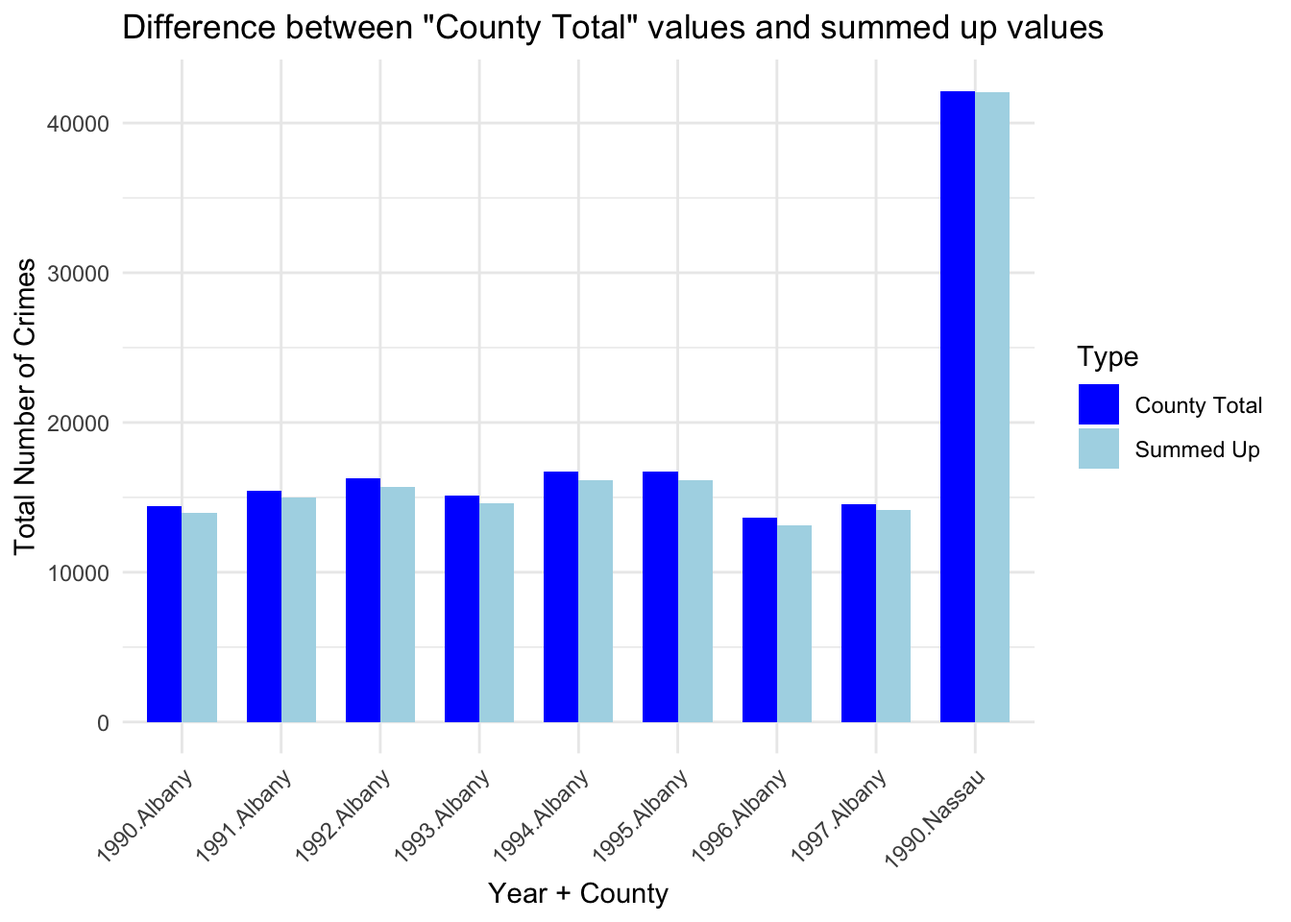
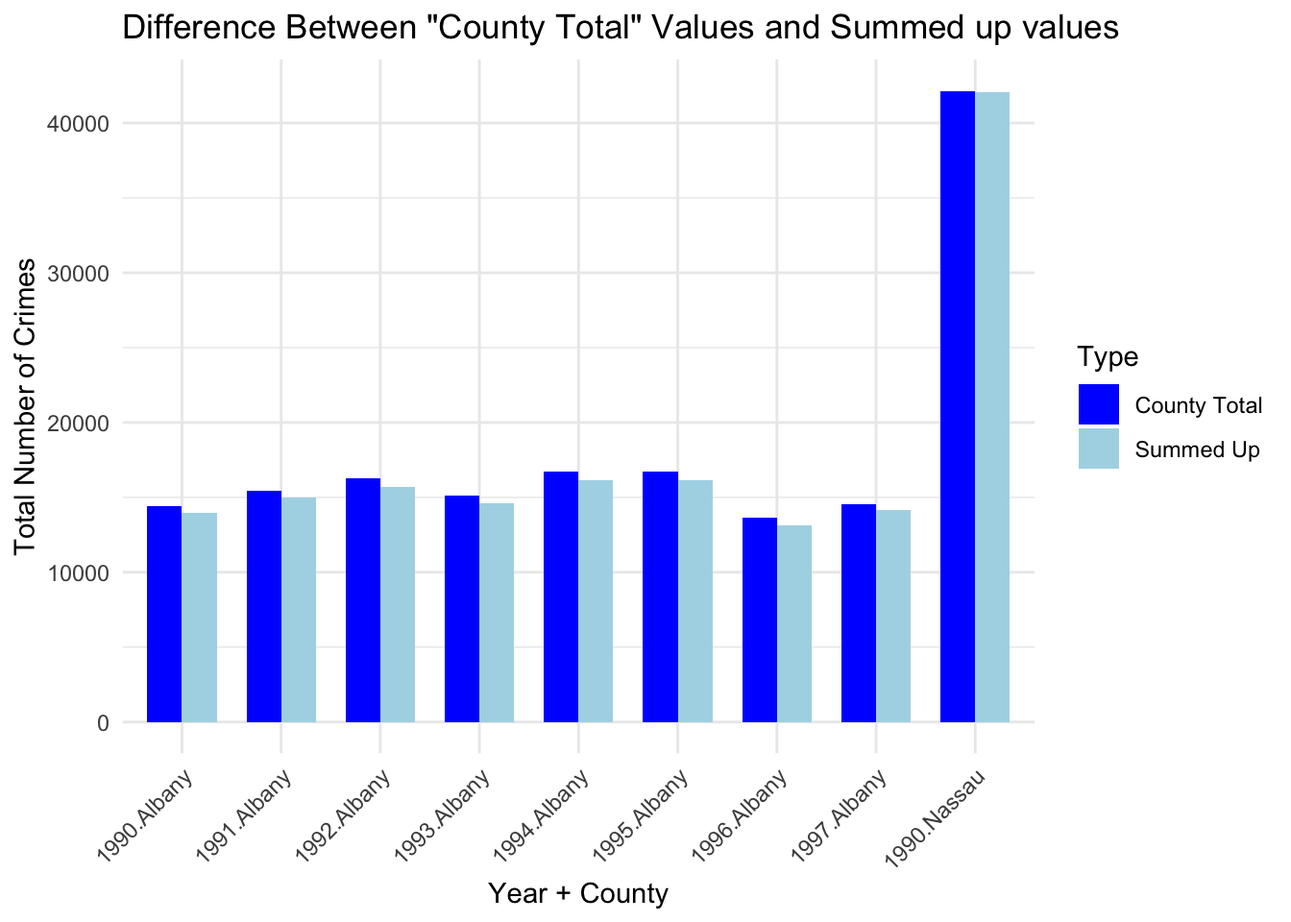
final final edits

Changed region(s): [[0.2188, 0.0, 0.875, 0.0625]]

diff --git a/docs/results.html b/docs/results.html
@@ -494,8 +494,8 @@ pre > code.sourceCode > span > a:first-child::before { text-decoration: underlin
 <span id="cb4-31"><a href="#cb4-31" aria-hidden="true" tabindex="-1"></a>  )</span></code><button title="Copy to Clipboard" class="code-copy-button"><i class="bi"></i></button></pre></div>
 </details>
 <div class="cell-output-display">
-<div class="plotly html-widget html-fill-item-overflow-hidden html-fill-item" id="htmlwidget-50a4a11b1c8277b47ff8" style="width:100%;height:464px;"></div>
-<script type="application/json" data-for="htmlwidget-50a4a11b1c8277b47ff8">{"x":{"data":[{"x":[314838,46446,1472656,198675,77041,76251,127675,84152,47216,79839,61567,46814,44302,295897,954244,37362,47556,53322,58394,47933,5102,60143,116723,2736075,26580,61842,68012,759444,49526,1395777,1694250,212650,232111,476511,112459,401324,40355,117533,58529,97682,2405464,161138,495749,338329,108502,235499,158058,29718,17894,33811,93577,1525936,78617,48461,105744,181856,65737,61302,91286,1004445,40531,24768],"y":[7.2515463325589673,-0.045969347265202576,10.386649335424874,0.038703704768720121,5.7672795626387723,-4.0619437479806519,-1.7142218549433299,-0.1634879916781011,0.37888621619357882,0.17150720922805807,-0.10917670099567373,6.8869693247986179,0.14332984600535192,-0.20768802678262399,1.332718218633351,-0.087387421528074133,3.7574447639254251,-6.5174579819024538,3.687590398542842,0.30235083018530229,-3.1544074157986,3.1728944003040858,-0.25278164013195836,5.4768617768567553,1.3982890553330503,0.454900644666547,-0.046975269606168435,1.4795632393534188,-2.0454277751927528,4.6040281674396937,15.370216437489113,-3.6337652133083229,2.7565929046350912,0.90996572199397718,-0.038495795968325475,0.46597299492022981,1.2951670991016331,-2.1018740676009231,-0.87293886678341603,1.3924318040592381,6.5279187240879324,1.7478987334302656,4.4508246980520854,0.30770881620207846,1.9031313965594074,2.2598456405400063,4.5808798369273607,-2.3502935376190517,2.5874309872016221,1.9778177763797398,1.1557301904990407,1.7323253016748499,-0.2295021476680266,-1.3576569726678678,2.7918721847827106,-1.1128900064910212,3.8500550445169299,1.1472114917921283,1.4417278583022246,1.0388025515951724,-0.66838417083752222,-1.3566509039806143],"text":["Population:  314838<br />1000 * increase:  7.25154633<br />Albany","Population:   46446<br />1000 * increase: -0.04596935<br />Allegany","Population: 1472656<br />1000 * increase: 10.38664934<br />Bronx","Population:  198675<br />1000 * increase:  0.03870370<br />Broome","Population:   77041<br />1000 * increase:  5.76727956<br />Cattaraugus","Population:   76251<br />1000 * increase: -4.06194375<br />Cayuga","Population:  127675<br />1000 * increase: -1.71422185<br />Chautauqua","Population:   84152<br />1000 * increase: -0.16348799<br />Chemung","Population:   47216<br />1000 * increase:  0.37888622<br />Chenango","Population:   79839<br />1000 * increase:  0.17150721<br />Clinton","Population:   61567<br />1000 * increase: -0.10917670<br />Columbia","Population:   46814<br />1000 * increase:  6.88696932<br />Cortland","Population:   44302<br />1000 * increase:  0.14332985<br />Delaware","Population:  295897<br />1000 * increase: -0.20768803<br />Dutchess","Population:  954244<br />1000 * increase:  1.33271822<br />Erie","Population:   37362<br />1000 * increase: -0.08738742<br />Essex","Population:   47556<br />1000 * increase:  3.75744476<br />Franklin","Population:   53322<br />1000 * increase: -6.51745798<br />Fulton","Population:   58394<br />1000 * increase:  3.68759040<br />Genesee","Population:   47933<br />1000 * increase:  0.30235083<br />Greene","Population:    5102<br />1000 * increase: -3.15440742<br />Hamilton","Population:   60143<br />1000 * increase:  3.17289440<br />Herkimer","Population:  116723<br />1000 * increase: -0.25278164<br />Jefferson","Population: 2736075<br />1000 * increase:  5.47686178<br />Kings","Population:   26580<br />1000 * increase:  1.39828906<br />Lewis","Population:   61842<br />1000 * increase:  0.45490064<br />Livingston","Population:   68012<br />1000 * increase: -0.04697527<br />Madison","Population:  759444<br />1000 * increase:  1.47956324<br />Monroe","Population:   49526<br />1000 * increase: -2.04542778<br />Montgomery","Population: 1395777<br />1000 * increase:  4.60402817<br />Nassau","Population: 1694250<br />1000 * increase: 15.37021644<br />New York","Population:  212650<br />1000 * increase: -3.63376521<br />Niagara","Population:  232111<br />1000 * increase:  2.75659290<br />Oneida","Population:  476511<br />1000 * increase:  0.90996572<br />Onondaga","Population:  112459<br />1000 * increase: -0.03849580<br />Ontario","Population:  401324<br />1000 * increase:  0.46597299<br />Orange","Population:   40355<br />1000 * increase:  1.29516710<br />Orleans","Population:  117533<br />1000 * increase: -2.10187407<br />Oswego","Population:   58529<br />1000 * increase: -0.87293887<br />Otsego","Population:   97682<br />1000 * increase:  1.39243180<br />Putnam","Population: 2405464<br />1000 * increase:  6.52791872<br />Queens","Population:  161138<br />1000 * increase:  1.74789873<br />Rensselaer","Population:  495749<br />1000 * increase:  4.45082470<br />Richmond","Population:  338329<br />1000 * increase:  0.30770882<br />Rockland","Population:  108502<br />1000 * increase:  1.90313140<br />St Lawrence","Population:  235499<br />1000 * increase:  2.25984564<br />Saratoga","Population:  158058<br />1000 * increase:  4.58087984<br />Schenectady","Population:   29718<br />1000 * increase: -2.35029354<br />Schoharie","Population:   17894<br />1000 * increase:  2.58743099<br />Schuyler","Population:   33811<br />1000 * increase:  1.97781778<br />Seneca","Population:   93577<br />1000 * increase:  1.15573019<br />Steuben","Population: 1525936<br />1000 * increase:  1.73232530<br />Suffolk","Population:   78617<br />1000 * increase: -0.22950215<br />Sullivan","Population:   48461<br />1000 * increase: -1.35765697<br />Tioga","Population:  105744<br />1000 * increase:  2.79187218<br />Tompkins","Population:  181856<br />1000 * increase: -1.11289001<br />Ulster","Population:   65737<br />1000 * increase:  3.85005504<br />Warren","Population:   61302<br />1000 * increase:  1.14721149<br />Washington","Population:   91286<br />1000 * increase:  1.44172786<br />Wayne","Population: 1004445<br />1000 * increase:  1.03880255<br />Westchester","Population:   40531<br />1000 * increase: -0.66838417<br />Wyoming","Population:   24768<br />1000 * increase: -1.35665090<br />Yates"],"type":"scatter","mode":"markers","marker":{"autocolorscale":false,"color":"rgba(0,0,0,1)","opacity":1,"size":5.6692913385826778,"symbol":"circle","line":{"width":1.8897637795275593,"color":"rgba(0,0,0,1)"}},"hoveron":"points","showlegend":false,"xaxis":"x","yaxis":"y","hoverinfo":"text","frame":null}],"layout":{"margin":{"t":43.762557077625573,"r":7.3059360730593621,"b":40.182648401826498,"l":37.260273972602747},"font":{"color":"rgba(0,0,0,1)","family":"","size":14.611872146118724},"title":{"text":"Change in crime rates from 2020 to 2022 vs population","font":{"color":"rgba(0,0,0,1)","family":"","size":17.534246575342465},"x":0,"xref":"paper"},"xaxis":{"domain":[0,1],"automargin":true,"type":"linear","autorange":false,"range":[-131446.64999999999,2872623.6499999999],"tickmode":"auto","ticktext":["0","1000000","2000000"],"tickvals":[0,999999.99999999988,2000000],"categoryorder":"array","categoryarray":["0","1000000","2000000"],"nticks":20,"ticks":"","tickcolor":null,"ticklen":3.6529680365296811,"tickwidth":0,"showticklabels":true,"tickfont":{"color":"rgba(77,77,77,1)","family":"","size":11.68949771689498},"tickangle":-0,"showline":false,"linecolor":null,"linewidth":0,"showgrid":true,"gridcolor":"rgba(235,235,235,1)","gridwidth":0.66417600664176002,"zeroline":false,"anchor":"y","title":{"text":"Population (in Millions)","font":{"color":"rgba(0,0,0,1)","family":"","size":14.611872146118724}},"hoverformat":".2f"},"yaxis":{"domain":[0,1],"automargin":true,"type":"linear","autorange":false,"range":[-7.6118417028720327,16.464600158458691],"tickmode":"auto","ticktext":["-5","0","5","10","15"],"tickvals":[-5,0,5,10.000000000000002,15.000000000000002],"categoryorder":"array","categoryarray":["-5","0","5","10","15"],"nticks":20,"ticks":"","tickcolor":null,"ticklen":3.6529680365296811,"tickwidth":0,"showticklabels":true,"tickfont":{"color":"rgba(77,77,77,1)","family":"","size":11.68949771689498},"tickangle":-0,"showline":false,"linecolor":null,"linewidth":0,"showgrid":true,"gridcolor":"rgba(235,235,235,1)","gridwidth":0.66417600664176002,"zeroline":false,"anchor":"x","title":{"text":"Crime rate (per 1,000) change","font":{"color":"rgba(0,0,0,1)","family":"","size":14.611872146118724}},"hoverformat":".2f"},"shapes":[{"type":"rect","fillcolor":null,"line":{"color":null,"width":0,"linetype":[]},"yref":"paper","xref":"paper","x0":0,"x1":1,"y0":0,"y1":1}],"showlegend":false,"legend":{"bgcolor":null,"bordercolor":null,"borderwidth":0,"font":{"color":"rgba(0,0,0,1)","family":"","size":11.68949771689498}},"hovermode":"closest","barmode":"relative"},"config":{"doubleClick":"reset","modeBarButtonsToAdd":["hoverclosest","hovercompare"],"showSendToCloud":false},"source":"A","attrs":{"ae2e525cd7d5":{"x":{},"y":{},"text":{},"type":"scatter"}},"cur_data":"ae2e525cd7d5","visdat":{"ae2e525cd7d5":["function (y) ","x"]},"highlight":{"on":"plotly_click","persistent":false,"dynamic":false,"selectize":false,"opacityDim":0.20000000000000001,"selected":{"opacity":1},"debounce":0},"shinyEvents":["plotly_hover","plotly_click","plotly_selected","plotly_relayout","plotly_brushed","plotly_brushing","plotly_clickannotation","plotly_doubleclick","plotly_deselect","plotly_afterplot","plotly_sunburstclick"],"base_url":"https://plot.ly"},"evals":[],"jsHooks":[]}</script>
+<div class="plotly html-widget html-fill-item-overflow-hidden html-fill-item" id="htmlwidget-7d8e270b69ea155e1245" style="width:100%;height:464px;"></div>
+<script type="application/json" data-for="htmlwidget-7d8e270b69ea155e1245">{"x":{"data":[{"x":[314838,46446,1472656,198675,77041,76251,127675,84152,47216,79839,61567,46814,44302,295897,954244,37362,47556,53322,58394,47933,5102,60143,116723,2736075,26580,61842,68012,759444,49526,1395777,1694250,212650,232111,476511,112459,401324,40355,117533,58529,97682,2405464,161138,495749,338329,108502,235499,158058,29718,17894,33811,93577,1525936,78617,48461,105744,181856,65737,61302,91286,1004445,40531,24768],"y":[7.2515463325589673,-0.045969347265202576,10.386649335424874,0.038703704768720121,5.7672795626387723,-4.0619437479806519,-1.7142218549433299,-0.1634879916781011,0.37888621619357882,0.17150720922805807,-0.10917670099567373,6.8869693247986179,0.14332984600535192,-0.20768802678262399,1.332718218633351,-0.087387421528074133,3.7574447639254251,-6.5174579819024538,3.687590398542842,0.30235083018530229,-3.1544074157986,3.1728944003040858,-0.25278164013195836,5.4768617768567553,1.3982890553330503,0.454900644666547,-0.046975269606168435,1.4795632393534188,-2.0454277751927528,4.6040281674396937,15.370216437489113,-3.6337652133083229,2.7565929046350912,0.90996572199397718,-0.038495795968325475,0.46597299492022981,1.2951670991016331,-2.1018740676009231,-0.87293886678341603,1.3924318040592381,6.5279187240879324,1.7478987334302656,4.4508246980520854,0.30770881620207846,1.9031313965594074,2.2598456405400063,4.5808798369273607,-2.3502935376190517,2.5874309872016221,1.9778177763797398,1.1557301904990407,1.7323253016748499,-0.2295021476680266,-1.3576569726678678,2.7918721847827106,-1.1128900064910212,3.8500550445169299,1.1472114917921283,1.4417278583022246,1.0388025515951724,-0.66838417083752222,-1.3566509039806143],"text":["Population:  314838<br />1000 * increase:  7.25154633<br />Albany","Population:   46446<br />1000 * increase: -0.04596935<br />Allegany","Population: 1472656<br />1000 * increase: 10.38664934<br />Bronx","Population:  198675<br />1000 * increase:  0.03870370<br />Broome","Population:   77041<br />1000 * increase:  5.76727956<br />Cattaraugus","Population:   76251<br />1000 * increase: -4.06194375<br />Cayuga","Population:  127675<br />1000 * increase: -1.71422185<br />Chautauqua","Population:   84152<br />1000 * increase: -0.16348799<br />Chemung","Population:   47216<br />1000 * increase:  0.37888622<br />Chenango","Population:   79839<br />1000 * increase:  0.17150721<br />Clinton","Population:   61567<br />1000 * increase: -0.10917670<br />Columbia","Population:   46814<br />1000 * increase:  6.88696932<br />Cortland","Population:   44302<br />1000 * increase:  0.14332985<br />Delaware","Population:  295897<br />1000 * increase: -0.20768803<br />Dutchess","Population:  954244<br />1000 * increase:  1.33271822<br />Erie","Population:   37362<br />1000 * increase: -0.08738742<br />Essex","Population:   47556<br />1000 * increase:  3.75744476<br />Franklin","Population:   53322<br />1000 * increase: -6.51745798<br />Fulton","Population:   58394<br />1000 * increase:  3.68759040<br />Genesee","Population:   47933<br />1000 * increase:  0.30235083<br />Greene","Population:    5102<br />1000 * increase: -3.15440742<br />Hamilton","Population:   60143<br />1000 * increase:  3.17289440<br />Herkimer","Population:  116723<br />1000 * increase: -0.25278164<br />Jefferson","Population: 2736075<br />1000 * increase:  5.47686178<br />Kings","Population:   26580<br />1000 * increase:  1.39828906<br />Lewis","Population:   61842<br />1000 * increase:  0.45490064<br />Livingston","Population:   68012<br />1000 * increase: -0.04697527<br />Madison","Population:  759444<br />1000 * increase:  1.47956324<br />Monroe","Population:   49526<br />1000 * increase: -2.04542778<br />Montgomery","Population: 1395777<br />1000 * increase:  4.60402817<br />Nassau","Population: 1694250<br />1000 * increase: 15.37021644<br />New York","Population:  212650<br />1000 * increase: -3.63376521<br />Niagara","Population:  232111<br />1000 * increase:  2.75659290<br />Oneida","Population:  476511<br />1000 * increase:  0.90996572<br />Onondaga","Population:  112459<br />1000 * increase: -0.03849580<br />Ontario","Population:  401324<br />1000 * increase:  0.46597299<br />Orange","Population:   40355<br />1000 * increase:  1.29516710<br />Orleans","Population:  117533<br />1000 * increase: -2.10187407<br />Oswego","Population:   58529<br />1000 * increase: -0.87293887<br />Otsego","Population:   97682<br />1000 * increase:  1.39243180<br />Putnam","Population: 2405464<br />1000 * increase:  6.52791872<br />Queens","Population:  161138<br />1000 * increase:  1.74789873<br />Rensselaer","Population:  495749<br />1000 * increase:  4.45082470<br />Richmond","Population:  338329<br />1000 * increase:  0.30770882<br />Rockland","Population:  108502<br />1000 * increase:  1.90313140<br />St Lawrence","Population:  235499<br />1000 * increase:  2.25984564<br />Saratoga","Population:  158058<br />1000 * increase:  4.58087984<br />Schenectady","Population:   29718<br />1000 * increase: -2.35029354<br />Schoharie","Population:   17894<br />1000 * increase:  2.58743099<br />Schuyler","Population:   33811<br />1000 * increase:  1.97781778<br />Seneca","Population:   93577<br />1000 * increase:  1.15573019<br />Steuben","Population: 1525936<br />1000 * increase:  1.73232530<br />Suffolk","Population:   78617<br />1000 * increase: -0.22950215<br />Sullivan","Population:   48461<br />1000 * increase: -1.35765697<br />Tioga","Population:  105744<br />1000 * increase:  2.79187218<br />Tompkins","Population:  181856<br />1000 * increase: -1.11289001<br />Ulster","Population:   65737<br />1000 * increase:  3.85005504<br />Warren","Population:   61302<br />1000 * increase:  1.14721149<br />Washington","Population:   91286<br />1000 * increase:  1.44172786<br />Wayne","Population: 1004445<br />1000 * increase:  1.03880255<br />Westchester","Population:   40531<br />1000 * increase: -0.66838417<br />Wyoming","Population:   24768<br />1000 * increase: -1.35665090<br />Yates"],"type":"scatter","mode":"markers","marker":{"autocolorscale":false,"color":"rgba(0,0,0,1)","opacity":1,"size":5.6692913385826778,"symbol":"circle","line":{"width":1.8897637795275593,"color":"rgba(0,0,0,1)"}},"hoveron":"points","showlegend":false,"xaxis":"x","yaxis":"y","hoverinfo":"text","frame":null}],"layout":{"margin":{"t":43.762557077625573,"r":7.3059360730593621,"b":40.182648401826498,"l":37.260273972602747},"font":{"color":"rgba(0,0,0,1)","family":"","size":14.611872146118724},"title":{"text":"Change in crime rates from 2020 to 2022 vs population","font":{"color":"rgba(0,0,0,1)","family":"","size":17.534246575342465},"x":0,"xref":"paper"},"xaxis":{"domain":[0,1],"automargin":true,"type":"linear","autorange":false,"range":[-131446.64999999999,2872623.6499999999],"tickmode":"auto","ticktext":["0","1000000","2000000"],"tickvals":[0,999999.99999999988,2000000],"categoryorder":"array","categoryarray":["0","1000000","2000000"],"nticks":20,"ticks":"","tickcolor":null,"ticklen":3.6529680365296811,"tickwidth":0,"showticklabels":true,"tickfont":{"color":"rgba(77,77,77,1)","family":"","size":11.68949771689498},"tickangle":-0,"showline":false,"linecolor":null,"linewidth":0,"showgrid":true,"gridcolor":"rgba(235,235,235,1)","gridwidth":0.66417600664176002,"zeroline":false,"anchor":"y","title":{"text":"Population (in Millions)","font":{"color":"rgba(0,0,0,1)","family":"","size":14.611872146118724}},"hoverformat":".2f"},"yaxis":{"domain":[0,1],"automargin":true,"type":"linear","autorange":false,"range":[-7.6118417028720327,16.464600158458691],"tickmode":"auto","ticktext":["-5","0","5","10","15"],"tickvals":[-5,0,5,10.000000000000002,15.000000000000002],"categoryorder":"array","categoryarray":["-5","0","5","10","15"],"nticks":20,"ticks":"","tickcolor":null,"ticklen":3.6529680365296811,"tickwidth":0,"showticklabels":true,"tickfont":{"color":"rgba(77,77,77,1)","family":"","size":11.68949771689498},"tickangle":-0,"showline":false,"linecolor":null,"linewidth":0,"showgrid":true,"gridcolor":"rgba(235,235,235,1)","gridwidth":0.66417600664176002,"zeroline":false,"anchor":"x","title":{"text":"Crime rate (per 1,000) change","font":{"color":"rgba(0,0,0,1)","family":"","size":14.611872146118724}},"hoverformat":".2f"},"shapes":[{"type":"rect","fillcolor":null,"line":{"color":null,"width":0,"linetype":[]},"yref":"paper","xref":"paper","x0":0,"x1":1,"y0":0,"y1":1}],"showlegend":false,"legend":{"bgcolor":null,"bordercolor":null,"borderwidth":0,"font":{"color":"rgba(0,0,0,1)","family":"","size":11.68949771689498}},"hovermode":"closest","barmode":"relative"},"config":{"doubleClick":"reset","modeBarButtonsToAdd":["hoverclosest","hovercompare"],"showSendToCloud":false},"source":"A","attrs":{"b134719c42a9":{"x":{},"y":{},"text":{},"type":"scatter"}},"cur_data":"b134719c42a9","visdat":{"b134719c42a9":["function (y) ","x"]},"highlight":{"on":"plotly_click","persistent":false,"dynamic":false,"selectize":false,"opacityDim":0.20000000000000001,"selected":{"opacity":1},"debounce":0},"shinyEvents":["plotly_hover","plotly_click","plotly_selected","plotly_relayout","plotly_brushed","plotly_brushing","plotly_clickannotation","plotly_doubleclick","plotly_deselect","plotly_afterplot","plotly_sunburstclick"],"base_url":"https://plot.ly"},"evals":[],"jsHooks":[]}</script>
 </div>
 </div>
 <p>We indeed observe a relatively clear positive correlation of county population size against the change in crime rates between 2020 and 2022. As a matter of fact, a bit more massaging of the data shows that a very good interpolating function would be something like the square root of the population.</p>

diff --git a/docs/data.html b/docs/data.html
@@ -269,7 +269,8 @@ pre > code.sourceCode > span > a:first-child::before { text-decoration: underlin
 <span id="cb1-14"><a href="#cb1-14" aria-hidden="true" tabindex="-1"></a>  <span class="fu">labs</span>(<span class="at">title =</span> <span class="st">"Percentage of Missing </span><span class="sc">\"</span><span class="st">Months Collected</span><span class="sc">\"</span><span class="st"> Values by County"</span>,</span>
 <span id="cb1-15"><a href="#cb1-15" aria-hidden="true" tabindex="-1"></a>       <span class="at">x =</span> <span class="st">"County"</span>, <span class="at">y =</span> <span class="st">"Missing Percentage"</span>) <span class="sc">+</span></span>
 <span id="cb1-16"><a href="#cb1-16" aria-hidden="true" tabindex="-1"></a>  <span class="fu">scale_y_continuous</span>(<span class="at">labels =</span> scales<span class="sc">::</span><span class="fu">percent_format</span>(<span class="at">scale =</span> <span class="dv">1</span>)) <span class="sc">+</span></span>
-<span id="cb1-17"><a href="#cb1-17" aria-hidden="true" tabindex="-1"></a>  <span class="fu">theme</span>(<span class="at">axis.text.x =</span> <span class="fu">element_text</span>(<span class="at">angle =</span> <span class="dv">90</span>, <span class="at">vjust =</span> <span class="fl">0.5</span>, <span class="at">hjust =</span> <span class="dv">1</span>))</span></code><button title="Copy to Clipboard" class="code-copy-button"><i class="bi"></i></button></pre></div>
+<span id="cb1-17"><a href="#cb1-17" aria-hidden="true" tabindex="-1"></a>  <span class="fu">theme</span>(<span class="at">axis.text.x =</span> <span class="fu">element_text</span>(<span class="at">angle =</span> <span class="dv">90</span>, <span class="at">vjust =</span> <span class="fl">0.5</span>, <span class="at">hjust =</span> <span class="dv">1</span>)) <span class="sc">+</span></span>
+<span id="cb1-18"><a href="#cb1-18" aria-hidden="true" tabindex="-1"></a>  <span class="fu">theme_minimal</span>()</span></code><button title="Copy to Clipboard" class="code-copy-button"><i class="bi"></i></button></pre></div>
 </details>
 <div class="cell-output-display">
 <p><img src="data_files/figure-html/unnamed-chunk-2-1.png" class="img-fluid" width="672"></p>
@@ -301,7 +302,8 @@ pre > code.sourceCode > span > a:first-child::before { text-decoration: underlin
 <span id="cb2-19"><a href="#cb2-19" aria-hidden="true" tabindex="-1"></a>       <span class="at">x =</span> <span class="st">"County"</span>, </span>
 <span id="cb2-20"><a href="#cb2-20" aria-hidden="true" tabindex="-1"></a>       <span class="at">y =</span> <span class="st">"Percentage of &lt;12 vs 12 Months Collected"</span>) <span class="sc">+</span></span>
 <span id="cb2-21"><a href="#cb2-21" aria-hidden="true" tabindex="-1"></a>  <span class="fu">scale_y_continuous</span>(<span class="at">labels =</span> scales<span class="sc">::</span><span class="fu">percent_format</span>(<span class="at">scale =</span> <span class="dv">1</span>)) <span class="sc">+</span></span>
-<span id="cb2-22"><a href="#cb2-22" aria-hidden="true" tabindex="-1"></a>  <span class="fu">theme</span>(<span class="at">axis.text.x =</span> <span class="fu">element_text</span>(<span class="at">angle =</span> <span class="dv">90</span>, <span class="at">vjust =</span> <span class="fl">0.5</span>, <span class="at">hjust =</span> <span class="dv">1</span>))</span></code><button title="Copy to Clipboard" class="code-copy-button"><i class="bi"></i></button></pre></div>
+<span id="cb2-22"><a href="#cb2-22" aria-hidden="true" tabindex="-1"></a>  <span class="fu">theme</span>(<span class="at">axis.text.x =</span> <span class="fu">element_text</span>(<span class="at">angle =</span> <span class="dv">90</span>, <span class="at">vjust =</span> <span class="fl">0.5</span>, <span class="at">hjust =</span> <span class="dv">1</span>)) <span class="sc">+</span></span>
+<span id="cb2-23"><a href="#cb2-23" aria-hidden="true" tabindex="-1"></a>  <span class="fu">theme_minimal</span>()</span></code><button title="Copy to Clipboard" class="code-copy-button"><i class="bi"></i></button></pre></div>
 </details>
 <div class="cell-output-display">
 <p><img src="data_files/figure-html/unnamed-chunk-3-1.png" class="img-fluid" width="672"></p>
@@ -431,7 +433,7 @@ pre > code.sourceCode > span > a:first-child::before { text-decoration: underlin
 <span id="cb9-73"><a href="#cb9-73" aria-hidden="true" tabindex="-1"></a>  <span class="fu">geom_bar</span>(<span class="at">position =</span> <span class="st">"dodge"</span>, </span>
 <span id="cb9-74"><a href="#cb9-74" aria-hidden="true" tabindex="-1"></a>           <span class="at">stat =</span> <span class="st">"identity"</span>, </span>
 <span id="cb9-75"><a href="#cb9-75" aria-hidden="true" tabindex="-1"></a>           <span class="at">width =</span> <span class="fl">0.7</span>) <span class="sc">+</span></span>
-<span id="cb9-76"><a href="#cb9-76" aria-hidden="true" tabindex="-1"></a>  <span class="fu">labs</span>(<span class="at">title =</span> <span class="st">"Difference between </span><span class="sc">\"</span><span class="st">County Total</span><span class="sc">\"</span><span class="st"> values and summed up values"</span>, </span>
+<span id="cb9-76"><a href="#cb9-76" aria-hidden="true" tabindex="-1"></a>  <span class="fu">labs</span>(<span class="at">title =</span> <span class="st">"Difference Between </span><span class="sc">\"</span><span class="st">County Total</span><span class="sc">\"</span><span class="st"> Values and Summed up values"</span>, </span>
 <span id="cb9-77"><a href="#cb9-77" aria-hidden="true" tabindex="-1"></a>       <span class="at">x =</span> <span class="st">"Year + County"</span>, </span>
 <span id="cb9-78"><a href="#cb9-78" aria-hidden="true" tabindex="-1"></a>       <span class="at">y =</span> <span class="st">"Total Number of Crimes"</span>) <span class="sc">+</span></span>
 <span id="cb9-79"><a href="#cb9-79" aria-hidden="true" tabindex="-1"></a>  <span class="fu">scale_fill_manual</span>(<span class="at">values =</span> <span class="fu">c</span>(<span class="st">"County Total"</span> <span class="ot">=</span> <span class="st">"blue"</span>, </span>
@@ -471,7 +473,8 @@ pre > code.sourceCode > span > a:first-child::before { text-decoration: underlin
 <span id="cb10-17"><a href="#cb10-17" aria-hidden="true" tabindex="-1"></a>  <span class="fu">labs</span>(<span class="at">title =</span> <span class="st">"Percentage of Available Data in Each Column"</span>,</span>
 <span id="cb10-18"><a href="#cb10-18" aria-hidden="true" tabindex="-1"></a>       <span class="at">x =</span> <span class="st">"Column"</span>,</span>
 <span id="cb10-19"><a href="#cb10-19" aria-hidden="true" tabindex="-1"></a>       <span class="at">y =</span> <span class="st">"Available Percentage"</span>) <span class="sc">+</span></span>
-<span id="cb10-20"><a href="#cb10-20" aria-hidden="true" tabindex="-1"></a>  <span class="fu">theme</span>(<span class="at">axis.text.x =</span> <span class="fu">element_text</span>(<span class="at">angle =</span> <span class="dv">45</span>, <span class="at">hjust =</span> <span class="dv">1</span>))</span></code><button title="Copy to Clipboard" class="code-copy-button"><i class="bi"></i></button></pre></div>
+<span id="cb10-20"><a href="#cb10-20" aria-hidden="true" tabindex="-1"></a>  <span class="fu">theme</span>(<span class="at">axis.text.x =</span> <span class="fu">element_text</span>(<span class="at">angle =</span> <span class="dv">45</span>, <span class="at">hjust =</span> <span class="dv">1</span>)) <span class="sc">+</span></span>
+<span id="cb10-21"><a href="#cb10-21" aria-hidden="true" tabindex="-1"></a>  <span class="fu">theme_minimal</span>()</span></code><button title="Copy to Clipboard" class="code-copy-button"><i class="bi"></i></button></pre></div>
 </details>
 <div class="cell-output-display">
 <p><img src="data_files/figure-html/unnamed-chunk-6-1.png" class="img-fluid" width="672"></p>
@@ -498,7 +501,7 @@ pre > code.sourceCode > span > a:first-child::before { text-decoration: underlin
 <span id="cb12-7"><a href="#cb12-7" aria-hidden="true" tabindex="-1"></a>                            <span class="at">fill =</span> Type)) <span class="sc">+</span></span>
 <span id="cb12-8"><a href="#cb12-8" aria-hidden="true" tabindex="-1"></a>  <span class="fu">geom_col</span>(<span class="at">position =</span> <span class="st">"dodge"</span>, </span>
 <span id="cb12-9"><a href="#cb12-9" aria-hidden="true" tabindex="-1"></a>           <span class="at">width =</span> <span class="fl">0.9</span>) <span class="sc">+</span> </span>
-<span id="cb12-10"><a href="#cb12-10" aria-hidden="true" tabindex="-1"></a>  <span class="fu">labs</span>(<span class="at">title =</span> <span class="st">"Population (estimate) per Year"</span>, </span>
+<span id="cb12-10"><a href="#cb12-10" aria-hidden="true" tabindex="-1"></a>  <span class="fu">labs</span>(<span class="at">title =</span> <span class="st">"Population (Estimate) per Year"</span>, </span>
 <span id="cb12-11"><a href="#cb12-11" aria-hidden="true" tabindex="-1"></a>       <span class="at">x =</span> <span class="st">"Year"</span>, </span>
 <span id="cb12-12"><a href="#cb12-12" aria-hidden="true" tabindex="-1"></a>       <span class="at">y =</span> <span class="st">"Population (in Millions)"</span>) <span class="sc">+</span></span>
 <span id="cb12-13"><a href="#cb12-13" aria-hidden="true" tabindex="-1"></a>  <span class="fu">scale_fill_manual</span>(<span class="at">values =</span> <span class="fu">c</span>(<span class="st">"Census Base Population"</span> <span class="ot">=</span> <span class="st">"blue"</span>, </span>
